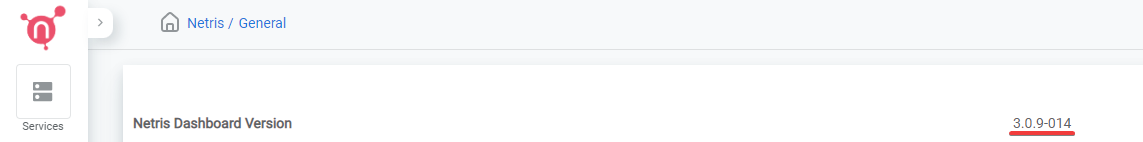
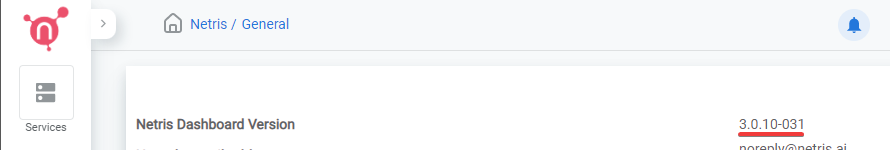
Upgrading Netris Tutorial Changes

diff --git a/tutorials/upgrading-netris.rst b/tutorials/upgrading-netris.rst
@@ -19,23 +19,23 @@ Upgrade Procedure
 
 Due to potential database structural changes between Netris versions, it's highly recommended to take a backup of the database before upgrading. The backup will be used in the unlikely event of the need to perform a rollback.
 
-1. To create a database backup, run the following command on the Controller:
+1. To create a database backup, run the following command by first SSHing the Controller:
 
 .. code-block:: shell-session
 
   kubectl -n netris-controller exec -it netris-controller-mariadb-0 -- bash -c 'mysqldump -u $MARIADB_USER -p${MARIADB_PASSWORD} $MARIADB_DATABASE' > db-snapshot.sql
 
-Ensure that SQL file ``db-snapshot.sql`` is generated in the current directory.
+Ensure that SQL file ``db-snapshot.sql`` is generated and present in the current directory.
 
 2. Stop all Netris agents on devices managed by the controller (switch & SoftGate).
 
-For the switch agent:
+For the switch agent, first SSH to the switch and run the following command:
 
 .. code-block:: shell-session
 
   sudo systemctl stop netris-sw
 
-For the SoftGate agent:
+For the SoftGate agent, first SSH to the SoftGate and run the following command:
 
 .. code-block:: shell-session
 
@@ -55,7 +55,7 @@ Ensure that all devices in the *Net → Inventory* section are ":red:`red`" with
     :align: center
     :alt: Netris Version Example
 
-4. Start the upgrade using the one-liner.
+4. Start the upgrade of the Netris Controller using the one-liner after SSHing to the Controller.
 
 .. code-block:: shell-session
 
@@ -101,25 +101,25 @@ The output is similar to this:
 
 Then verify that the "*Netris Version*" reflects the version change by navigating to *Setting → General* in the Controller web interface.
 
-5. Once you have verified that the Netris controller is up-to-date, take a note of the *Netris version:* for each device found under *Net → Inventory* section of the Controller web interface.
+5. Once you have verified that the Netris controller is up-to-date, it is time to update the switch and SoftGate agents.
 
-Afterwards, upgrade the switch & SoftGate agents using the one-liner from the "*Install Agent*" option of the corresponding device's 3-dot menu found under the *Net → Inventory* section.
+Upgrade the switch & SoftGate agents by copying the one-liner from the "*Install Agent*" option of the device's 3-dot menu found under the *Net → Inventory* section and pasting it after SSHing to the corresponding device.
 
 .. image:: /tutorials/images/install_agent.gif
     :align: center
     :alt: Install Agent
 
-After all the agents have finished the upgrade, make sure all devices in the *Net → Inventory* section have a ":green:`green`" status and the *Netris version* for each device reflects the version change.
+After all the agents have finished the upgrade process, make sure all devices in the *Net → Inventory* section have a ":green:`green`" status and the *Netris version* for each device reflects the version change.
 
 In the event the "**check_agent**" status is "**Agent is unavailable**" after the agent upgrade has finished, perform agent restart on the affected device(s).
 
-For the switch agent:
+For the switch agent, first SSH to the switch and run the following command:
 
 .. code-block:: shell-session
 
   sudo systemctl restart netris-sw
 
-For the SoftGate agent:
+For the SoftGate agent, first SSH to the SoftGate and run the following command:
 
 .. code-block:: shell-session
 
@@ -128,17 +128,17 @@ For the SoftGate agent:
 Rollback Procedure
 ==================
 
-A rollback procedure can be carried out in case of any adverse impact on the production traffic after the Netris upgrade.
+A rollback procedure can be executed in the event the upgrade introduced any adverse impact on the production traffic.
 
 1. Stop all Netris agents on the devices managed by the controller (switch & SoftGate).
 
-For the switch agent:
+For the switch agent, first SSH to the switch and run the following command:
 
 .. code-block:: shell-session
 
   sudo systemctl stop netris-sw
 
-For the SoftGate agent:
+For the SoftGate agent, first SSH to the SoftGate and run the following command:
 
 .. code-block:: shell-session
 
@@ -146,19 +146,19 @@ For the SoftGate agent:
 
 2. Restore the database from the previously taken snapshot.
 
-Copy the backup file from the controller host system to the MariaDB container:
+Copy the backup file from the controller host system to the MariaDB container by running the following command after SSHing to the Controller:
 
 .. code-block:: shell-session
 
   kubectl -n netris-controller cp db-snapshot.sql netris-controller-mariadb-0:/opt/db-snapshot.sql
 
-Restore the database:
+While still connected to the Controller, restore the database:
 
 .. code-block:: shell-session
 
   kubectl -n netris-controller exec -it netris-controller-mariadb-0 -- bash -c 'mysql -u root -p${MARIADB_ROOT_PASSWORD} $MARIADB_DATABASE < /opt/db-snapshot.sql'
 
-3. Downgrade Netris controller application.
+3. Downgrade Netris Controller application with the following command.
 
 .. note::
   
@@ -168,64 +168,25 @@ Example:
 
 .. code-block:: shell-session
 
-  curl -sfL https://get.netris.ai | sh -s -- --ctl-version 3.0.9-014
+  curl -sfL https://get.netris.ai | sh -s -- --ctl-version 3.0.10-031
 
 Afterwards, verify that the version of the "*Netris Version*" reflects the downgraded version by navigating to *Setting → General* in the Netris Controller.
 
-.. _downgrade 4:
+4. Once you have verified that the Netris controller has been downgraded to the correct version, it is time to downgrade the switch and SoftGate agents. 
 
-4. Determine the correct version number to downgrade the device agents to:
+Install the correct and appropriate versions of the switch & SoftGate agents simply by copying the one-liner from the "*Install Agent*" option of the device's 3-dot menu found under the *Net → Inventory* section and pasting it after SSHing to the corresponding device.
 
-.. _downgrade 4 sw:
-
-For the switch agent, use ``apt policy netris-sw`` and select the latest version that matches the Controller version.
-
-Example:
-
-.. image:: /tutorials/images/sw_apt_policy.png
-    :align: center
-    :alt: SW Apt Policy Example
-
-
-.. _downgrade 4 sg:
-
-For the SoftGate agent, use ``apt policy netris-sg`` and select the latest version that matches the Controller version.
-
-Example:
-
-.. image:: /tutorials/images/sg_apt_policy.png
-    :align: center
-    :alt: SG Apt Policy Example
-
-5. Downgrade switch and SoftGate agents.
-
-For the switch agent follow the below example, replacing the version number determined in the pervious :ref:`step #4<downgrade 4 sw>`.
-
-Example:
-
-.. code-block:: shell-session
-
-  sudo apt-get update && apt-get install netris-sw=3.0.9.003
-
-For the SoftGate agent follow the below example, replacing the version number determined in the pervious :ref:`step #4<downgrade 4 sg>`.
-
-Example:
-
-.. code-block:: shell-session
-
-  sudo apt-get update && apt-get install netris-sg=3.0.9.002
-
-After all the switches and SoftGates have been downgraded, make sure all the devices in the *Net → Inventory* section have a ":green:`green`" status and the Netris version for each device matches what was determined in :ref:`step #4<downgrade 4>`.
+After all the switches and SoftGates have been successfully downgraded, make sure all the devices in the *Net → Inventory* section have a ":green:`green`" status and the *Netris version* for each device reflects the version downgrade.
 
 In case the "**check_agent**" status is "**Agent is unavailable**" after agent downgrade, perform agent restart.
 
-For the switch agent:
+For the switch agent, first SSH to the switch and run the following command:
 
 .. code-block:: shell-session
 
   sudo systemctl restart netris-sw
 
-For the SoftGate agent:
+For the SoftGate agent, first SSH to the SoftGate and run the following command:
 
 .. code-block:: shell-session
 
